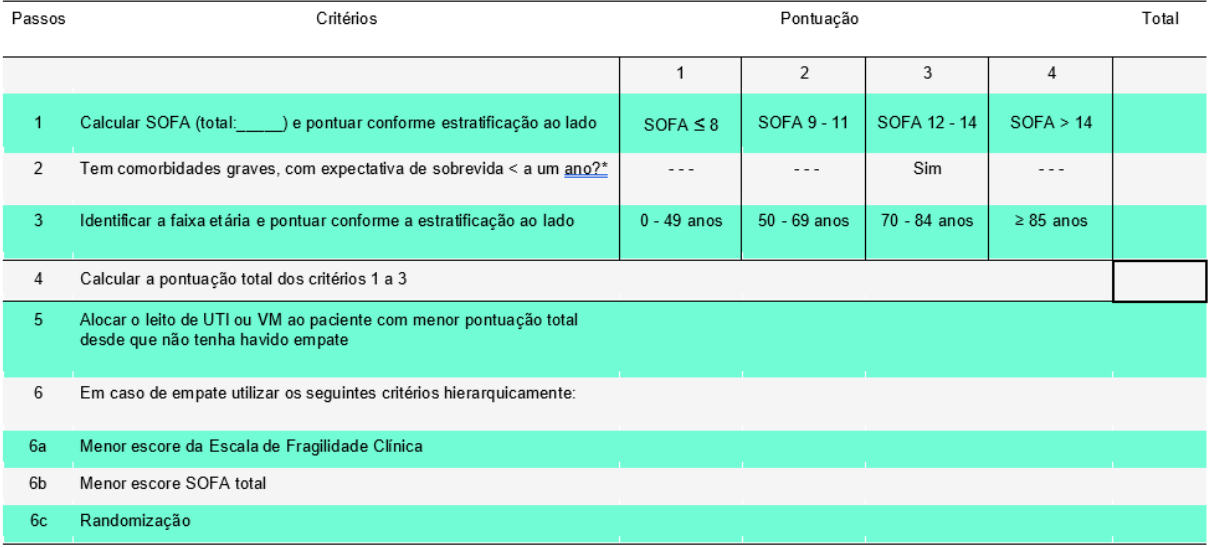
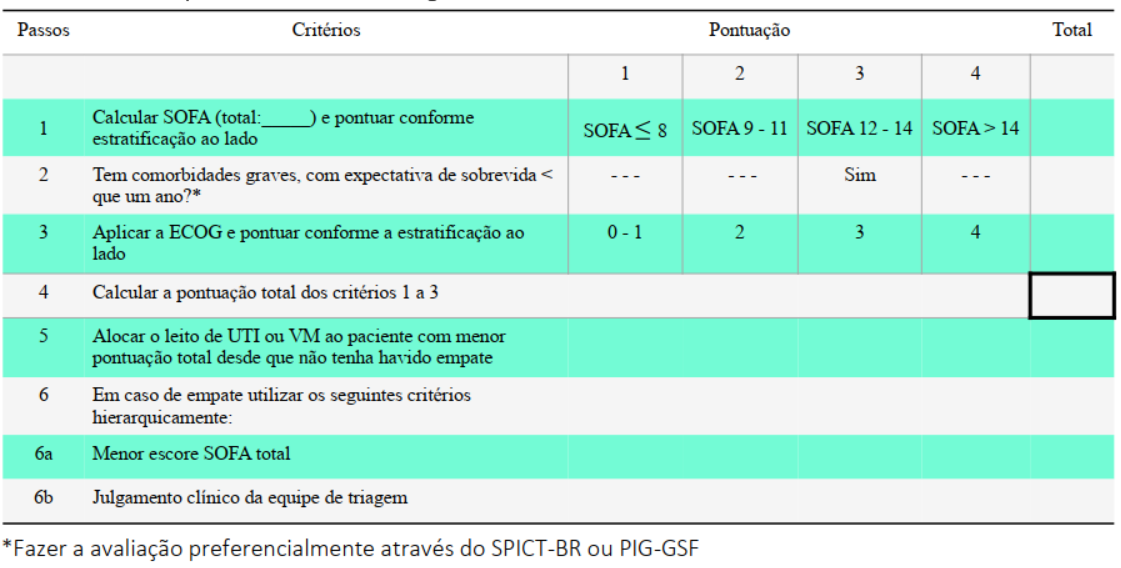
Trabalho quase pronto.

diff --git a/main.tex b/main.tex
@@ -9,11 +9,11 @@
 
 \usepackage{float}
 \usepackage[utf8]{inputenc}  
-
+\usepackage{todonotes}
      
 \sloppy
 
-\title{Geração de dados sintéticos para modelo de triagem AMIB }
+\title{GERAÇÃO DE DADOS SINTÉTICOS UTILIZANDO MODELO DE TRIAGEM AMIB/ABRAMEDE}
 
 \author{Alison Sassi\inst{1} \and Gustavo Spiess\inst{2} }
 
@@ -32,200 +32,272 @@ Universidade Regional do Noroeste do Estado do Rio Grande do Sul
 
 Nos últimos cem anos, a maior pandemia ocasionado pela doença da COVID19 em 2020 foi a mais mortal, presenciamos um cenário do colapso da estrutura hospitalar pública, falta de leitos, de respiradores e profissionais da saúde. Os leitos de Unidade de Terapia Intensiva (UTI) foram alocados na sua totalidade, portanto, médicos tiveram um desafio de entender a prioridade de um paciente em um leito de UTI devido a alta demanda, ocasionando em problemas psicológicos, muitas vezes sendo uma escolha baseado no emocional do médico. Durante esse período, médicos realizaram uma decisão de quem ocupava um leito disponível, utilizando protocolos de triagem e guias criados por vários lugares do mundo, para minimizar a quantidade de mortes, dentre eles o protocolo publicado em 2020 pela Associação de Medicina Intensiva Brasileira (AMIB). Este artigo tem por objetivo descrever o modelo publicado pela AMIB utilizado para a triagem, explicar a forma que as variáveis foram extraídas e demonstrar forma para uma geração de de dados sintéticos.
 
-\textbf{Palavras-chave:} Unidade de Terapia Intensiva (UTI). Escassez de leitos hospitalares. Auxílio médico. Gerenciamento hospitalar. Protocolo.
+\textbf{Palavras-chave:} Unidade de Terapia Intensiva (UTI); Escassez de leitos hospitalares; Auxílio para médico na triagem;. Protocolo AMIB/ABRAMEDEE. Escala SOFA.
 
 \section{ABSTRACT} 
 \textbf{Keywords:} Intensive Care Unit (ICU). Shortage of hospital beds. Medical assistance. Hospital management. Protocol.
 
 \section{INTRODUÇÃO}
-Em 31 de dezembro de 2019, a China reportou, à Organização Mundial de Saúde (OMS), casos de uma grave pneumonia de origem desconhecida em Wuhan, na província de Hubei, onde em fevereiro, a OMS passou a utilizar oficialmente o termo Covid-19 para a síndrome respiratória aguda grave causada pelo novo vírus Sars-CoV-2 \cite{sa2020especial}.
 
-Em fevereiro do ano de 2020 foi registrado o primeiro caso no Brasil, com o nível de ameaça global muito elevado no mundo todo, assim se tornando a maior pandemia dos últimos cem anos.
-Por ser uma doença muito facilmente contagiosa, os casos aumentaram rapidamente em todos os estados do Brasil, com grandes problemas respiratórios, ocasionando em internações em leitos monitorados.
+Em 31 de dezembro de 2019 foi reportado casos de uma grave pneumonia de origem desconhecida na província de Hubei em Wuhan/China para a Organização Mundial de Saúde (OMS), a qual foi nominada de "Covid-19" para uma síndrome respiratória aguda grave causada pelo novo vírus identificado Sars-CoV-2, sendo uma doença facilmente contagiosa, transmitida por gotículas, recebendo mutações constantemente \cite{sa2020especial}. 
 
-O Conselho Federal de Medicina (CFM) aponta a necessidade de 1 a 3 leitos de UTI para cada 10 mil habitantes, tendo como base a indicação da Associação de Medicina Intensiva Brasileira \cite{domingues2018numero}. De acordo com o Conselho Federal de Medicina, no ano de 2018, 21.500 leitos de UTI no Brasil foram disponibilizados pelo Sistema Único de Saúde (SUS) \cite{cfm2018,cfm2020}, ainda mais com a oferta de leitos de Unidade de Terapia Intensiva (UTI) que é historicamente escassez no Brasil pelo seu alto custo \cite{murthy2015intensive}. No ano de 2020 com a alta quantidade de novos casos de COVID-19 foram disponibilizados 3.104 novos leitos apenas para leitos de UTI SUS \cite{cotrim2020crescimento}.
+Em fevereiro do ano de 2020 foi registrado o primeiro caso no Brasil, com o passar dos dias os casos aumentaram exponencialmente no mundo todo, alcançando um nível de ameaça global muito elevado, em poucos dias todos os estados do Brasil tinham centenas de pacientes com a doença, ocasionando em internações em leitos de UTI, se tornando a maior pandemia dos últimos cem anos.
 
-Diante dessa estrutura hospitalar precária os leitos de UTI nos hospitais públicos ficaram escassos rapidamente, o que ocasionou muitas vidas finalizadas por falta de recursos. Os profissionais de saúde na linha de frente de atendimento se depararam com o fato de uma escassez de recursos para um grande número de indivíduos necessitados deles. Surge-se então o acionamento de protocolos para a triagem para uma minimização de mortes devido à doença. A não utilização de protocolos implicaria em situações absurdamente imorais, tais como a chegada do recurso escasso por ordem de chegada ou mesmo sorteio ou ainda a não oferta do recurso para ninguém \cite{costa2020protocolos}.
+No Brasil os leitos de Unidade de Terapia Intensiva (UTI)  são historicamente escasso pelo seu alto custo diário \cite{murthy2015intensive}. De acordo com o Conselho Federal de Medicina, no ano de 2018, 21.500 leitos de UTI no Brasil foram disponibilizados pelo Sistema Único de Saúde (SUS) \cite{cfm2018,cfm2020}. Com a alta quantidade de novos casos de COVID-19 de leitos de UTI durante a pandemia, foram disponibilizados 3.104 novos leitos para leitos de UTI SUS \cite{cotrim2020crescimento}, o que ajudou momentaneamente alguns lugares específicos.
+
+Diante dessa estrutura precária nos hospitais públicos, os leitos de UTI  ficaram escassos rapidamente, o que ocasionou alta quantidade de mortes por falta de recursos. Os profissionais de saúde na linha de frente de atendimento se depararam com o fato de uma escassez de recursos para um grande número de indivíduos necessitados deles. Surge-se então o acionamento de protocolos para a triagem para uma minimização de mortes devido à doença. A não utilização de protocolos implicaria em situações absurdamente imorais, tais como a chegada do recurso escasso por ordem de entrada ou mesmo sorteio ou ainda a não oferta do recurso para ninguém \cite{costa2020protocolos}.
 
 Uma pesquisa realizada pela Fundação Getúlio Vargas e Fundação Oswaldo Cruz consultou 1.829 profissionais de saúde no Brasil em março de 2021, 85,4\% dos médicos entrevistados relataram que tiveram sua saúde mental afetada negativamente pela pandemia \cite{paulomotoryn2021}. Um dos pontos que influenciam diretamente e tem provocado grandes mudanças psicológicas negativas durante a pandemia, é a responsabilidade que o médico tem de escolher qual paciente tem o quadro clínico mais adequado para poder ocupar um leito de UTI \cite{teixeira2020processo}.
-Diante da complexidade e inusitados casos clínicos, a tomada de decisão exige mais rapidez, assertividade na resposta e baseado nos dados pessoais do paciente, agilizando o processo de ocupação do leito de UTI e também para outros pacientes que estão na espera.
 
 Um protocolo publicado em 2020 pela Associação de Medicina Intensiva Brasileira (AMIB) trouxe algumas regras pensadas pela equipe médica para serem eticamente defensíveis, garantindo que processos de alocação de recursos em esgotamento não ocorram em segredo, sem registro apropriado e de maneira subjetiva e inconsistente. O protocolo surgiu para que as escolhas médicas sejam claras, transparentes, tecnicamente bem embasados, eticamente justificados e que estejam alinhados ao arcabouço legal brasileiro \cite{kretzer2020protocolo}.
 
-
 \section{Associação de Medicina Intensiva Brasileira (AMIB)}
 
-Em condições de normalidade de serviços em saúde, a oferta de leitos de UTI é baseada na necessidade de terapias de suporte orgânico e probabilidade de recuperação. Além disto é reconhecido que medidas de suporte orgânico tais como o suporte ventilatório não mudam a evolução natural de um paciente cuja doença se apresenta em estágio avançado e próxima à morte. Desta forma, mesmo quando não há escassez de leitos de UTI a alocação deste recurso deve levar em consideração o benefício prognóstico das terapias, não sendo considerada uma infração ética ou legal que medidas de suporte orgânico não sejam oferecidas a pacientes que se encontram em final de vida. 
-À luz destas avaliações de benefícios, decisões quanto aos objetivos do plano de cuidados devem sempre que possível ser compartilhadas entre equipe assistente, paciente e familiares, de maneira a refletir não apenas aspectos clínicos mas também os valores e desejos dos envolvidos. 
-O respeito à dignidade intrínseca de cada pessoa exige que pacientes que se aproximam do final da vida recebam cuidados que tenham como objetivo oferecer a melhor qualidade de sobrevida, incluindo controle impecável de sintomas e acolhimento das necessidades emocionais, sociais e espirituais tanto do paciente quanto de seus familiares.
+Em momentos não pandêmicos o serviço público em saúde oferece leitos de UTI baseados em dois fatores: Na necessidade de terapias de suporte orgânico e probabilidade de recuperação. Nesse cenário o centro da atenção no atendimento da área de saúde sobre o indivíduo, portanto todas as decisões em relação ao plano de cuidados do paciente, diante do possível, pode ser compartilhadas entre a equipe assistente, paciente e familiares, de maneira a refletir não apenas aspectos clínicos mas também os valores e desejos dos envolvidos não sendo considerada uma infração ética ou legal que medidas de suporte orgânico não sejam oferecidas a pacientes que se encontram em fase final de vida. 
 
-O mesmo racional acima descrito deve se aplicar quanto a alocação de vagas de UTI em condições
-de pandemia pelo COVID-19. No entanto, no indesejável caso da pandemia provocar um esgotamento dos recursos de leitos de UTI e de ventiladores mecânicos, um maior escrutínio quanto ao potencial benefício de medidas de suporte orgânico precisa ser adotado e o maior escopo dado a escolhas individualizadas que ocorre em condições de não esgotamento de recursos passa a ser temperado pelo reconhecimento de que há outros pacientes com a mesma necessidade e expectativa de receber os mesmos recursos.
+Quando em momentos pandêmicos, que no caso do COVID-19, ocasionou o indesejável esgotamento dos recursos de leitos de UTI e de ventiladores mecânicos, o centro da atenção no atendimento da área de saúde, deixa de ser somente de um indivíduo com a decisão compartilhada e passa para um objetivo de reduzir o número de mortes da população de forma geral, utilizando a melhor maneira possível. Nesse momento onde há uma situação de crise, são úteis as regras de avaliações de triagem com o objetivo de sair de uma crise, sabendo que o protocolo contribuiu para reduzir o número de mortes a nível populacional.
 
-Diante da responsabilidade de haver preparo para a possibilidade de racionamento de recursos
-esgotados, estamos propondo um protocolo que inclui um modelo de triagem que tem como objetivo auxílio prático aos profissionais de saúde diante de decisões complexas associadas a alocação de leitos de UTI e
-ventiladores.
+Diante da pandemia, a Associação de Medicina Intensiva Brasileira, propôs um protocolo que inclui um modelo de triagem baseado em um modelo de aceitabilidade social \cite{biddison2019too} e ajustando as leis do país, portanto sendo uma intersecção dentre três áreas: 
+\begin{enumerate}
+\item  Ético, Legais e aceitabilidade social - Modelo que protege de potenciais questionamentos jurídicos.
+\item Aplicabilidade - Modelo complexo para oferecer uma segurança preditiva e que seja aplicável na prática.
+\item Área técnica - Modelo que auxilia o profissional de saúde tomar decisões complexas associadas a alocação de leitos de UTI e ventiladores, retirando uma grande carga de responsabilidade deixando o processo de decisão mais transparente.
+\end{enumerate}
+
+O objetivo do protocolo em questão é salvar o maior número possível de vidas no menor tempo e com menos recursos, proteger os profissionais do peso moral e jurídico da decisão, com transparência do processo de decisão, prestando contas a sociedade das escolhas que estão sendo realizadas, com a aplicabilidade para todos os pacientes, sendo com o vírus que ocasionou a crise ou doenças não pandêmicas.
+
+O protocolo lista as condições essenciais para o início da implementação das regras, sendo o elas o reconhecimento de estado de emergência em saúde pública, reconhecimento de que tenha havido esforços razoáveis em aumentar a oferta dos recursos em esgotamento, criação de comissões de triagem hospitalares pelos diretores técnicos, alinhamento da gestão do protocolo intra-hospitalar com o sistema de regulação de leitos, locais/regionais que facilite a disponibilidade de leitos entre unidades hospitalares, monitoração regular da condição de esgotamento de recursos de forma a identificar a necessidade do início da aplicação do protocolo bem como as condições para seu encerramento e anúncio público do início e encerramento da aplicação do protocolo.
 
 
-Entre outros, um dos objetivos do Protocolo AMIB de alocação de recursos em esgotamento durante a pandemia por COVID-19 é retirar das mãos de profissionais que estão na linha de frente do cuidado a responsabilidade de tomar decisões emocionalmente exaustivas e que possam aumentar os já elevados riscos de problemas de saúde mental provocados pela pandemia da COVID-19 e consequentemente comprometer a capacidade para o trabalho a curto e longo prazo.
+% Quanto à aplicação do modelo de triagem de pacientes que necessitem de leito de UTI ou suporte ventilatório:  Identificar a presença por parte do paciente de Diretivas Antecipadas de Vontade ou expressões de desejos prévios de não receber tratamento em UTI ou de ser submetido à ventilação mecânica invasiva. Isto pode ser feito com a ajuda do médico assistente e familiares. Estes pacientes deverão ter seus desejos respeitados e não deverão ser triados.2. Manter a estabilização clínica enquanto os dados de triagem necessários sejam colhidos - idealmente os dados devem estar disponíveis em um período de 90 minutos. 3. Calcular a pontuação do paciente conforme o SOFA, presença de co-morbidades que sugiram uma probabilidade maior de sobrevida inferior a um ano (preferencialmente via SPICT: presença de pelo menos dois critérios) e ECOG (ver passo a passo na tabela 1). 4. Alocar os leitos de UTI e/ou ventiladores mecânicos aos pacientes com menores pontuações. 5. Utilizar a pontuação total do SOFA como primeiro critério desempate. Persistindo o empate na pontuação entre pacientes a equipe de triagem deve ser acionada de forma a fazer a alocação de recursos baseado em julgamento clínico. 6. Comunicar de maneira empática a pacientes e familiares sobre o processo de triagem, informá-los da pontuação atual do paciente e acolher as necessidades de informação e as necessidadesemocionais e espirituais sempre que possível. 7. Fazer registro apropriado da pontuação do paciente em prontuário. 8. Manter pacientes que não foram priorizados na lista de triagem e no aguardo da disponibilidade de leitos de UTI ou ventiladores mecânicos. Reavaliar esses pacientes regularmente, mantendo cálculos atualizados. Pacientes poderão solicitar exclusão da triagem a qualquer momento. 9. Reavaliação regular dos pacientes que foram alocados leitos de UTI ou ventiladores mecânicos; evitar a distanásia.
 
-Profissionais da saúde desejam conduzir seus trabalhos moralmente. Tomar decisões de grande peso moral de maneira subjetiva e sem apoio institucional ou de recomendações formais pode ser emocionalmente debilitante.
+%Quanto aos cuidados aos pacientes que não desejaram ou a quem não foram alocados leitos de UTI ou ventiladores 1. Pacientes que não serão internados em UTI ou que não receberão suporte ventilatório devem ser internados em enfermaria e receber todos os demais cuidados e medidas de estabilização clínica com o quais consentirem. 2. Pacientes que se aproximam da morte devem receber todos os cuidados que garantam a dignidade e a prevenção e tratamento dos sofrimentos físicos, sócio-emocionais e espirituais. 3. Um protocolo institucional de controle de sintomas que incluam medidas de boa prática no controle da dispneia e sedação paliativa quando esta for necessária deve estar disponível. 4. Garantir acesso à comunicação (ainda que virtual) entre familiares e pacientes, incluindo quando possível e sob supervisão de equipe de psicologia oportunidades para rituais de despedida.
 
-A responsabilidade quanto aos princípios que devem guiar decisões de alocação de recursos escassos, portanto, ao envolver questões de justiça distributiva deve ser idealmente compartilhada com as autoridades competentes
+% Quanto as comissões de triagem Outras medidas de boa prática A utilização de um protocolo de maneira consistente pelas diversas instituições de saúde garante que um maior número de pacientes sejam igualmente sujeitos aos mesmos critérios chancelados pelas autoridades responsáveis tanto pelo zelo técnico-científico quanto o ético-legal do processo.
 
-Somam-se as preocupações com potenciais questionamentos jurídicos relacionadas às decisões e que também podem aumentar os riscos de danos à saúde mental dos profissionais.
+\subsection{CRITÉRIOS DO PROTOCOLO}
 
-A utilização de um protocolo de maneira consistente pelas diversas instituições de saúde garante que um maior número de pacientes sejam igualmente sujeitos aos mesmos critérios chancelados pelas autoridades responsáveis tanto pelo zelo técnico-científico quanto o ético-legal do processo.
+Existe uma primeira versão do protocolo de triagem sugerido pelo AMIB no ano de 2020, porém foi atualizada em uma segunda versão com considerações relevantes da Associação Brasileira de
+Medicina de Emergência (ABRAMEDE), Sociedade Brasileira de Geriatria e Gerontologia (SBGG) e Academia Nacional de Cuidados Paliativos(ANCP). Na nova versão foi removido o critério de idade por questão ética, jurídica e descriminatória. Portanto foi adicionado o ECOG como medida de funcionalidade do paciente.
 
-\section{Calculos do Amib }
+O modelo leva em consideração 3 critérios clínicos: avaliação da gravidade da situação aguda do paciente (órgãos comprometidos calculados pelo SOFA), comorbidades graves (se o conjunto de comorbidades é avançada o suficiente que determina que a vida termina em menos de 12 meses) e a escala que mede o quão funcional o paciente depende (calculado pelo ECOG).
+
+Conforme a Figura \ref{Passos-modelo-triagem-AMIB-ABRAMEDE}
+
 
 \begin{figure}[!htb]
     \centering
-    \includegraphics[scale=0.9]{img/Tabela de pontuacoes e criterios.png}
+    \includegraphics[scale=0.5]{img/Tabela de pontuacoes e criterios.png}
     \centering
-    \caption{Calculo de pontuação e critério de desempate do modelo de triagem AMIB.}
-    \label{subexpressao}
+    \caption{Passos do modelo de triagem AMIB/ABRAMEDE \cite{kretzer2020recomendaccoes}}
+    \label{Passos-modelo-triagem-AMIB-ABRAMEDE}
 \end{figure}
 
-O SOFA (abreviação para Sequential Sepsis-related Organ Failure Assessment), originalmente derivado de um estudo de coorte com 1449 pacientes internados em UTIs de 16 países nos anos 90, avalia objetivamente o avanço de uma disfunção orgânica em pacientes que apresentam alguma infecção, bem como a mortalidade diante de um estado de saúde crítico de um indivíduo.
-O SOFA avalia 6 sistemas diferentes a partir de diversos exames clínicos e laboratoriais, e prediz a mortalidade de pacientes com sepse a partir da pontuação.
+\clearpage
 
-A tabela 1 demonstra a relação entre a pontuação no SOFA e a mortalidade:
-PONTUAÇÃO SOFA	MORTALIDADE EM X%
-0–6	<10\%
-7–9	15–20\%
-10–12	40–50\%
-13–14	50–60\%
-15	>80\%
-15–24	>90\%
+\subsubsection{CRITÉRIO 1 - SEQUENTIAL ORGAN FAILURE ASSESSMENT (SOFA)}
 
-Esse score é baseado em seis diferentes variáveis, que avaliam os sistemas respiratório, cardiovascular, hepático, renal, neurológico e de coagulação. A cada sistema é atribuída uma pontuação de 0 (classificado como dentro dos parâmetros de normalidade) e 4 (alto grau de disfunção), totalizando um máximo de 24 pontos. A pontuação deve ser calculada 24 horas após a admissão e a cada 48 horas depois — justificando o termo “sequencial” do nome da pontuação.
+O SOFA é o primeiro critério do protocolo AMIB, ele avalia objetivamente o avanço de uma disfunção orgânica em pacientes que apresentam alguma infecção, bem como a mortalidade diante de um estado de saúde crítico de um indivíduo.
+O SOFA avalia 6 sistemas diferentes a partir de diversos exames clínicos e laboratoriais, e prediz a mortalidade de pacientes com sepse a partir da pontuação \cite{lambden2019sofa}.
+
+O escore SOFA é composto por 6 variáveis, cada uma representando um sistema do órgão. À cada sistema do órgão é atribuído um valor entre zero e quatro pontos, sendo zero o valor representando que o sistema está normal, e 4 representando que o sistema está em um alto grau de disfunção ou falência. A soma dos pontos do escore SOFA varia entre zero e vinte e quatro (0-24), existindo uma relação entre a pontuação do SOFA com uma porcentagem referente à mortalidade do paciente, a tabela a seguir demonstra essa relação:
+
+\begin{center}
+    \begin{tabular}{l r r r}
+        \hline
+        PONTUAÇÃO SOFA & MORTALIDADE EM X\% \\
+        \hline
+            0–6	& $\leq 10$\% \\
+            7–9	& 15–20\% \\
+            10–12 & 40–50\% \\
+            13–14 & 50–60\% \\
+            15 & $\geq80$\% \\
+            15–24 & $\geq90$\% \\
+        \hline
+    \end{tabular}
+\end{center}
 
 
+Os seis sistemas são avaliados e recebem uma pontuação, são eles: Os sistemas respiratório, cardiovascular, hepático, renal, neurológico e de coagulação. A pontuação deve ser calculada 24 horas após a admissão e a cada 48 horas depois — justificando o termo “sequencial” do nome da pontuação.
+
+\todo{VERIFICAR AQUI NOVAMENTE}
 SISTEMA RESPIRATÓRIO: é avaliado a partir da razão entre PaO2/FiO2, a partir de dados obtidos através de gasometria arterial. Essa razão é dada em milímetros de mercúrio (mmHg) e é considerada sem alterações quando seu valor está acima de 400mmHg. Abaixo de 400, 1 ponto no SOFA. Abaixo de 300, 2 pontos. A pontuação é 3 quando o paciente está em suporte ventilatório com a PaO2/FiO2 abaixo de 200, e ele recebe a pontuação máxima quando a relação tem resultado menor que 100mmHg com suporte ventilatório.
 
 COAGULAÇÃO: é avaliada a partir do plaquetograma. O valor considerado de referência, ou seja, que não pontua no score SOFA, é 150.000/mm³. Os valores de corte para as pontuações de 1 a 4, respectivamente, são abaixo de 150, 100, 50 e 20. 
 
-AVALIAÇÃO HEPÁTICA: realizada com o exame de bilirrubinas totais, que é considerado dentro dos valores de normalidade quando está abaixo de 1,2mg/dL.
+AVALIAÇÃO HEPÁTICA: realizada com o exame de bilirrubinas totais, que é considerado dentro dos valores de normalidade quando está abaixo de 1,2mg/dL \cite{lambden2019sofa}.
 
 SISTEMA CARDIOVASCULAR: o paciente que apresenta hipotensão e necessidade de droga vasoativa (DVA) é quem pontua nesta parte do score. É mensurado a partir da pressão arterial média, que recebe 1 ponto em caso de PAM<70mmHg. A partir do 2º ponto, é considerado o uso de DVA – 2 pontos se uso de dopamina<5 ou dobutamina em qualquer dose;  3 pontos em caso de uso de dopamina, noradrenalina ou adrenalina em doses mais baixas, e em caso de aumento da dosagem das DVAs, o paciente recebe a pontuação de 4 pontos.
 
-SISTEMA NEUROLÓGICO: recebe avaliação a partir da escala de coma de Glasgow, conforme tabela 2. 
-SISTEMA RENAL: é avaliado por dois parâmetros – creatinina e o débito urinário (a partir de 3 pontos). A creatinina se demonstra alterada a partir de 1,2mg/dL, pontuando 1 até 1,9mg/dL. Valores de 2,0 a 3,4mg/dL pontuam 2, enquanto o paciente que apresenta diurese menor que 500 ml por dia OU creatinina de 3,5 a 4,9mg/dL pontua 3. Quando a diurese é inferior a 200 ml por dia ou a creatinina é superior a 5, o paciente recebe o score máximo. 
+SISTEMA NEUROLÓGICO: recebe avaliação a partir da escala de coma de Glasgow.
 
+SISTEMA RENAL: é avaliado por dois parâmetros – creatinina e o débito urinário (a partir de 3 pontos). A creatinina se demonstra alterada a partir de 1,2mg/dL, pontuando 1 até 1,9mg/dL. Valores de 2,0 a 3,4mg/dL pontuam 2, enquanto o paciente que apresenta diurese menor que 500 ml por dia OU creatinina de 3,5 a 4,9mg/dL pontua 3. Quando a diurese é inferior a 200 ml por dia ou a creatinina é superior a 5, o paciente recebe o score máximo \cite{lambden2019sofa}.
 
+\subsubsection{CRITÉRIO 2 - SUPPORTIVE AND PALLIATIVE CARE INDICATORS TOOL (SPICT)}
 
-\section{MODELO COMPUTACIONAL}
+A ferramenta SPICT-BR é o segundo critério do protocolo AMIB, é uma lista de indicadores gerais de deterioração clínica e de indicadores de gravidades de doenças específicas: doenças
+cardiovasculares, doenças renais, respiratórias, hepáticas, câncer, doenças neurológicas e
+demências e fragilidades \cite{rodriguez2021pergunta}. Para que haja a indicação de cuidado paliativo do paciente necessita pontuar pelo menos 02 ou mais dos indicadores gerais e 01 indicador específico. O SPICT-BR foi traduzido e validado para utilização em pacientes brasileiros em abril de 2016. A Pergunta Surpresa, corresponde ao questionamento – “Você acredita que o seu paciente tem expectativa de vida menor do que 12 meses?”, direcionado à equipe de saúde, mas especificamente, ao médico assistente. Se a resposta for “Sim”, o paciente se beneficiará dos Cuidados Paliativos.
 
-O roteiro do código se baseará no protocolo da Associação de Medicina Intensiva Brasileira (AMIB), de alocação de recursos em esgotamento durante a pandemia por COVID-19, pois entende-se que esse protocolo pode se estender para os dias pós pandemia. O protocolo busca um alinhamento com os critérios da resolução que priorizam a maior necessidade, expectativa de benefícios e adota a recomendação de que pacientes com baixa prioridade e que estão próximos à morte recebam preferencialmente cuidados paliativos. O protocolo AMIB contribui com a aplicação da resolução na medida que oferece critérios mais objetivos de avaliação de benefícios, aliviando o profissional do peso dessa tarefa em tempos de pandemia e garantindo que elas tenham maior consistência.
-O modelo usará as variáveis extraídas do protocolo AMIB, sendo elas parte do Escore de falência de órgãos (protocolo Sequential Organ Failure Assessment - SOFA), com o objetivo de levantar e ensinar para o modelo quais os fatores de risco para a vida do paciente.
+Para o protocolo AMIB, se caso o paciente estiver com a pergunta surpresa como "Sim" receberá 3 pontos no total.
 
-Considerando o protocolo AMIB, existem nove critérios clinicos a serem havaliados para a tomada de decisão, denotados $a_1$ até $a_9$:
+\subsubsection{CRITÉRIO 3 - EASTERN COOPERATIVE ONCOLOGY GROUP (ECOG)}
+O Eastern Cooperative Oncology Group (ECOG) é o terceiro critério do protocolo AMIB, é um
+instrumento validado e amplamente utilizado em oncologia e que busca quantificar a capacidade funcional física e capacidade de independência e auto-cuidado do paciente. A inferência é que quanto pior o PS do paciente menor sua reserva fisiológica e piores os desfechos clínicos.
+
+A coleta desta medida deve ser referente ao estatus de performance que o paciente exiba nas duas a quatro semanas que antecederam a internação de maneira a excluir o fator confundidor da presença de doença aguda que possa ter se iniciado nas duas semanas imediatamente anteriores a internação hospitalar. Não recomendamos o uso deste critério, sem uma avaliação clínica individualizada, a pacientes portadores de deficiências físicas de longa data e que apresentem uma boa condição de adaptação \cite{pinto2000physician}.
+\todo{REVISAR AQUI TBM}
+
+\section{ALGORITMO PARA GERAÇÃO DE DADOS}
+
+O roteiro do código se baseará totalmente no protocolo da Associação de Medicina Intensiva Brasileira (AMIB), de alocação de recursos em esgotamento durante a pandemia por COVID-19 \cite{kretzer2020recomendaccoes}, considerando que existem oito variáveis clínicas a serem avaliados para aplicar os três critérios do protocolo, serão denotados de $a_1$ até $a_8$:
 
 \[
     \begin{split}
-        a_1 &\in \mathbb{Z}; 20 \ge a_1 \ge 85\text{, sendo a idade do paciente} \\
-        a_2 &\in \{0, 1, 2, 3, 4\}\text{, sendo o critério neurológico} \\
-        a_3 &\in \{0, 1, 2, 3, 4\}\text{, sendo o critério respiratório} \\
-        a_4 &\in \{0, 1, 2, 3, 4\}\text{, sendo o critério cardio-vascular} \\
-        a_5 &\in \{0, 1, 2, 3, 4\}\text{, sendo o critério coagulatório} \\
-        a_6 &\in \{0, 1, 2, 3, 4\}\text{, sendo o critério hepático} \\
-        a_7 &\in \{0, 1, 2, 3, 4\}\text{, sendo o critério renal} \\
-        a_8 &\in \{0, 3\}\text{, sendo o critério de comorbidades (ICC)} \\
-        a_9 &\in \{0, 1, 2, 3, 4\}; a_1 < 60 \implies a_8=0\text{, sendo o critério oncológico (ECOG)} \\
+        a_1 &\in \{0, 1, 2, 3, 4\}\text{, sendo o critério neurológico} \\
+        a_2 &\in \{0, 1, 2, 3, 4\}\text{, sendo o critério respiratório} \\
+        a_3 &\in \{0, 1, 2, 3, 4\}\text{, sendo o critério cardiovascular} \\
+        a_4 &\in \{0, 1, 2, 3, 4\}\text{, sendo o critério coagulatório} \\
+        a_5 &\in \{0, 1, 2, 3, 4\}\text{, sendo o critério hepático} \\
+        a_6 &\in \{0, 1, 2, 3, 4\}\text{, sendo o critério renal} \\
+        a_7 &\in \{0, 3\}\text{, sendo o critério de comorbidades (SPICT) } \\
+        a_8 &\in \{0, 1, 2, 3, 4\}\text{, sendo o critério da escala de status de desempenho (ECOG)} \\
     \end{split}
 \] 
 
-Notadamente, o protocolo não limita a idade para apeneas as faixas descritas, o procolo é aplicável para situações conde há pacientes com menos de vinte anos ou com mais de oitenta e cinco.
-Essa restrição de idade foi decidida em prol da geração de dados, e poderia ser modificada.
-Outra observação que de deve ressaltar é de que o critério oncológico é sujeito, no protocolo AMIB, à idade do paciente, isso é, mesmo com indicação clínica de tumores, o critério só os considera para pacientes com mais de sessenta anos.
+O primeiro critério que compõe a pontuação total do protocolo, é o SOFA, demonstrado nas variáveis de $a_1$ até $a_6$, que conforme os valores aferidos do paciente são atrelados a pontos para cada variável do SOFA, resultando em um somatório SOFA final, quantificando entre zero e quatro pontos.
 
-Para a execução do protocolo são utilizadas as seguintes somas:
+Em seguida o modelo do protocolo AMIB levanta o critério de comorbidades graves do paciente, o qual deve ser analisado a situação de cuidados paliativos juntamente com variáveis definidas na ferramenta SPICT, se caso a Pergunta Surpresa: “Você acredita que o seu paciente tem expectativa de vida menor do que 12 meses?” for respondida como “Sim” será pontuado como três pontos no total do calculo AMIB.
+
+Para compor o último critério do protocolo AMIB, calcula-se a escala de status de desempenho utilizando o ECOG, que busca quantificar a capacidade funcional física e capacidade de independência e auto-cuidado do paciente, quantificando entre zero e quatro pontos.
+
+Portanto para calcular a pontuação total dos três critérios levanta-se a seguinte expressão matemática:
 
 \[
 \begin{split}
-    s &= \sum_{n=2}^{7} a_n\text{, sendo o SOFA} \\
-    t_1 &=  \begin{cases}
-        1, \text{se } & a_1 \le 49 \\
-        2, \text{se } 49 < & a_1 \le 69 \\
-        3, \text{se } 69 < & a_1 \le 84 \\
-        4, \text{se } 85 < & a_1 \\
-    \end{cases} \\
-    t_2 &= \begin{cases}
+    s &= \sum_{n=1}^{6} a_n\text{, sendo o SOFA} \\
+    C_1 &= \begin{cases}
         1, \text{se } & s \le 8 \\
         2, \text{se } 8 < & s \le 11 \\
         3, \text{se } 11 < & s \le  14 \\
         4, \text{se } 14 < & s \\
     \end{cases} \\
-    t &= t_1 + t_2 + a_8 + a_9 \\ % TODO revisar a soma
+    C_2 &= \begin{cases}
+        0, \text{se } & a_7 \neq "Sim" \\
+        3, \text{se } & a_7 \equiv "Sim" \\
+    \end{cases} \\
+    C_3 &= \begin{cases}
+        1, \text{se } a_8 = 1 \\
+        2, \text{se } a_8 = 2 \\
+        3, \text{se } a_8 = 3 \\
+        4, \text{se } a_8 = 4 \\
+    \end{cases} \\
+    t &= C_1 + C_2 + C_3 \\
 \end{split}
 \] 
 
-Dados dois pacientes, $p_1$ e $p_2$, o protocolo decide entre os dois primeiramente comparando o valor de $t$ calculado para cada um, se  $t_{p_1}$ for menor que $t_{p_2}$ o protocolo prescreve que a preferência na obtenção do leito seja de  $p_1.$
-A reciproca, naturalmente, é verdadeira.
-No caso de $t$ ser igual para os dois pacientes, é realizada a comparação usando  $s$. 
-No caso de $t$ e de  $s$ serem iguais para os pacientes, utiliza-se o EU JÁ NEM ME LEMBRO MAIS.
+%A alocação de leito de UTI ou VM, conforme o protocolo AMIB, deve ser realizado com o paciente que estiver com a menor pontuação total, desde que não tenha havido empate. Se caso empate da pontuação total, deve ser notado o menor escore do SOFA total e se assim mesmo estiver com empate nessa somatória, o julgamento clínico será da equipe de triagem. 
 
-Notadamente, é possível desenhar dois pacientes para que o protocolo seja incapaz de fornecer distinção relevante a respeito de priorização de um em relação a outro, no caso em que o protocolo sugere randomização.
-Mais especificamente, é possível desenhar uma função $\alpha \in [0, 1]$ que informe o grau de certeza com o qual o protocolo determina a prioridade.
+Portanto, dados dois pacientes, $p_1$ e $p_2$, o protocolo decide entre os dois primeiramente comparando o valor de $t$ calculado para cada um, se  $t_{p_1}$ for menor que $t_{p_2}$ o protocolo prescreve que a preferência na obtenção do leito seja de $p_1.$ sendo a recíproca naturalmente verdadeira.
+
+Se $t$ for igual para $p_1$ e $p_2$, o protocolo sugere é realizada a comparação de ambos usando $s$. Se caso $t$ e $s$ serem iguais para $p_1$ e $p_2$, utiliza-se o julgamento clínico será da equipe de triagem, ou seja, um ou mais profissionais decidirão entre ambos, para qual utilizará um leito de UTI.
+
+
+\section{RESULTADOS EXPERIMENTAIS}
+
+Após mapear as variáveis com os critérios do protocolo AMIB, é possível realizar uma classe denominada "Paciente" que contém oito variáveis já descritas no modelo matemático, de forma a gerar dados sintéticos para validação do modelo sugerido.
+
+A criação de um algoritmo desenvolvido para este artigo com as $a_1$ até $a_8$ e os critérios $C_1$, $C_2$ e $C_3$ resulta em saídas onde é escolhido um paciente sem ocorrer empate, ou é realizado um empate da soma total, porém o critério de desempate SOFA resolve, porém para esse artigo, decidiu-se forçar casos clínicos em que o protocolo seja incapaz de fornecer distinção relevante a respeito de priorização de paciente relação a outro, no caso em que o protocolo sugere julgamento clínico, voltando a total responsabilidade para pessoas.
+Notadamente, é possível desenhar uma função $\alpha \in [0, 1]$ que informe o grau de certeza com o qual o protocolo determina a prioridade:
 
 \[
 \alpha = \begin{cases}
     \frac{t_{p_1} - t_{p_2}}{\max_t - \min_t}, \text{se } t_{p_1} - t_{p_2} \neq 0 \\
+    \frac{a_{7p_1} - a_{7p_2}}{\max_{a_7} - \min_{a_7}}, \text{se } a_{7p_1} - a_{7p_2} \neq 0 \\
     \frac{a_{8p_1} - a_{8p_2}}{\max_{a_8} - \min_{a_8}}, \text{se } a_{8p_1} - a_{8p_2} \neq 0 \\
     \frac{s_{p_1} - s_{p_2}}{\max_s - \min_s}, \text{se } s_{p_1} - s_{p_2} \neq 0 \\
-    0, \text{se o protocolo prescreve randomização}
+    0, \text{se o protocolo julgamento clínico da equipe de triagem}
 \end{cases}
 \] 
+\todo{TEM QUE REVISAR ESSE CALCULO}
 
-Sendo um objetivo minimizar $\alpha$, é preciso destavar de que isso é trivial considerando o caso de dois pacientes com todos os critérios idênticos, mas esse caso foge do que é desejável, pois não são cabíveis quaisquer outros argumentos quanto a priorização.
-Para tando, se utiliza-se a noção de inercia ($i$) como medida de homogeneitdade, de forma que valores menores de $i$ implicam conjuntos de paciêntes mais homogêneos.
-A inércia pode ser calculada como o quadrado da disância de cada menbro do conjunto para o centro de gravidade do conjunto.
+Com o objetivo deste artigo sendo minimizar $\alpha$, será trivial considerando o caso de dois pacientes com todos os critérios idênticos, mas esse caso foge do que é desejável, pois não são cabíveis quaisquer outros argumentos quanto a priorização.
+Para tando, utiliza-se a noção de inércia ($i$) como medida de homogeneidade, de forma que valores menores de $i$ implicam em conjuntos de pacientes mais homogêneos.
+A inércia pode ser calculada como o quadrado da distância de cada membro do conjunto para o centro de gravidade do conjunto.
 
 \[
 I = \sum_{p \in P}d(p, c)^2
 \] 
 
-Considerando $P$ o conjunto de pacientes, $c$ o centro de massa desse conjunto e $d$ a distância euclideana.
+Considerando $P$ o conjunto de pacientes, $c$ o centro de massa desse conjunto e $d$ a distância euclideana, é possível a construção de um conjunto de dados que maximize a obtenção de quais são os critérios de decisão de um julgamento clínico, presumindo que utilize o protocolo AMIB. Para tanto, qualquer que seja o conjunto de pacientes que o médico ordenará, esse deve maximizar a inercia e minimizar alfa.
 
-Com essas definições, é possível a construção de um conjunto de dados que maximize a obtenção de quais os critérios de decisão de um médico, presumindo que ele se informe pelo protocolo AMIB, mas que tome uma decisão médica para os casos em que o protocolo prescreve randomização.
-Para tanto, qualquer que seja o conjunto de pacientes que o médico ordenará, esse deve maximizar a inercia e minimizar alfa.
+Considerando uma função de qualidade $\frac{I}{\alpha}$, realiza-se uma busca por um conjunto especificado de dez pacientes da seguintes forma:
 
-Considerando uma função de qualidade $\frac{I}{\alpha}$, realiza-se uma busca por um conjunto de dez pacientes da seguintes forma:
-
-É construído um novo paciente $P$ escolhendo um ponto nesse espaço de nove dimensões, nesse processo são feitas validações de $a_1$ até $a_9$ de forma que pertence aos conjuntos definidos. 
-Também são validadas asa seguintes regras clínicas:
+É construído um novo paciente $P$ escolhendo um ponto nesse espaço de nove dimensões, nesse processo são feitas validações de $a_1$ até $a_9$ de forma que pertence aos conjuntos definidos, validando as seguintes regras clínicas:
 
 \[
 \begin{split}
-    R_1: a_4 \ge 3 \implies a_2 \ge 3 \\
-    R_2: \ldots
+    \begin{cases}
+    R_1: a_1 \and a_6 &\in \{0, 1, 2, 3, 4\} \\
+    R_2: a_7 &\in \{0, 3\} \\
+    R_3: a_8 &\in \{0, 1, 2, 3, 4\} \\
+    %Quando Respiratório com ventilação mecânica (3 ou 4) o Glasgow tem que ser 3 ou 4
+    R_4: a_1 \ge 3 \implies a_3 \ge 3 \\
+    \end{cases}
 \end{split}
 \]
 
-É construído um conjunto de 10 pacientes, para o conjunto é calculada a função $\frac{I}{\alpha}$.
-É calculada a mesma função para os 10 subconjuntos de 9 elementos.
+No mesmo algoritmo é construído um conjunto de 10 pacientes, para o conjunto é calculada a função $\frac{I}{\alpha}$ assim como os 10 subconjuntos de 9 elementos.
 No subconjunto com maior $\frac{I}{\alpha}$ será complementado com um novo paciente gerado e validado se o $\frac{I}{\alpha}$ ainda é maior $\frac{I}{\alpha}$ do conjunto original.
-Para a próxima etapa é utilizado qual dos dois conjuntos tiverem maior valor.
-Esse processo se repete dez mil vezes.
 
-isso fornece um conjunto de paciente homogêneos e em que o protocolo AMIB falha em prescrever qual paciente deve receber prioridade. 
+O registro hipotético validado na função com maior valor é utilizado para a persistência da informação, o processo fica em um laço de repetição por dez mil vezes, pré programado no código.
 
-
-\section{RESULTADOS EXPERIMENTAIS}
+Dessa forma o algoritmo fornece um conjunto de paciente homogêneos e em que o protocolo AMIB sugere que seja utilizado um julgamento clínico pelos profissionais.
 
 
-MÉDIA DOS CRITÉRIOS. ( IDADE (SOMA DO SOMA) ...
+Com uma geração de mil registros de pacientes hipotéticos, percebe-se que há uma homogeneidade entre a soma do SOFA, ou seja, a porcentagem da mortalidade com os pacientes gerados. Na imagem abaixo podemos perceber que existe similaridades entre os conjuntos de Pacientes, mesmo quando possuem valores diferentes.
 
-GRÁFICO DE DISPERSÃO...
+\begin{figure}[!htb]
+    \centering
+    \includegraphics[scale=0.9]{img/Taxa de Mortalidade2.png}
+    \centering
+    \caption{Paciente sintético por taxa de mortalidade.}
+    \label{Paciente-gerado-taxa-mortalidade}
+\end{figure}
+
+Entende-se que desses mil pacientes gerados sinteticamente, maior parte tem uma taxa de mortalidade de 40 a 50\%, o que analisando os dados de algumas amostras, tem sentido com a realidade de pessoas que necessitam de leito de UTI.
+
+Para uma visualização mais detalhada dos mesmos dados, mostra-se o resultado da soma do SOFA em relação aos pacientes. Não foi demonstrado o somatório total dos pontos porque o algoritmo forçou a soma do total e do SOFA de forma idêntica, fazendo com que resulte o mesmo gráfico.
+
+\begin{figure}[!htb]
+    \centering
+    \includegraphics[scale=0.9]{img/Taxa de Mortalidade.png}
+    \centering
+    \caption{Paciente sintético por soma do SOFA, legenda taxa de mortalidade.}
+    \label{Paciente-gerado-por-SOFA-legenda-taxa-mortalidade}
+\end{figure}
+
+
+Quando colocado cada paciente comparando com todos, temos um milhão de registros simulando decisões em pares com cada paciente, de forma simplificada o algoritmo foi desenvolvido para gerar cem conjuntos de 10 pacientes, esses contém o mesmo total de pontos AMIB e o mesmo SOFA, ou seja, esses 10 pacientes devem ser julgado por um médico. 
+
+Diante dessa massa de dados, de mil registros, o algoritmo comparou cada registro com os outros novecentos e noventa e nove, para definir qual é o paciente prioritário a cada par, dessa comparação, gerou uma massa de dados de um milhão de registros a qual o protocolo AMIB classificou em 1, se for o primeiro paciente da dupla o mais prioritário, em 2 se for o segundo paciente e em 0 (zero) se não consegue definir um mais prioritário conforme as regras já citadas.
+Na imagem abaixo notamos que somente 10\% das comparações as regras do protocolo AMIB não consegue decidir.
+
+\begin{figure}[!htb]
+    \centering
+    \includegraphics[scale=0.9]{img/comparação.png}
+    \centering
+    \caption{Decisão do protocolo AMIB comparando a massa de dados. }
+    \label{Decisão-de-pacientes-1-2-0}
+\end{figure}
 
 
 
-
+\clearpage
 
 \section{CONSIDERAÇÕES FINAIS}
 
-Nóiz é F0d@
+Em um cenário de crise na saúde pública, nota-se a importância de utilizar um modelo de triagem para decisão clínica. Um protocolo criado pela Associação de Medicina Intensiva Brasileira, que tem dentre os objetivos, proteger os profissionais do peso moral e jurídico da decisão, com transparência do processo de decisão comprova-se que diante de dados clínicos gerados sinteticamente, e o algoritmo desenvolvido que o protocolo AMIB consegue discernir entre dois paciente em 90\% dos casos
 
 \section{PRÓXIMAS ETAPAS}
 
